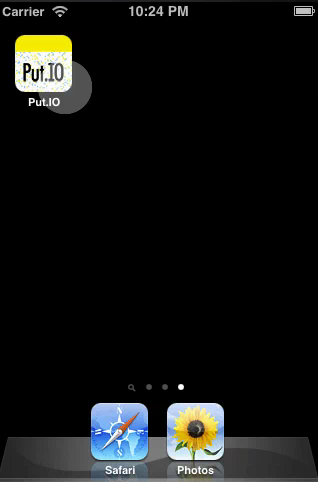
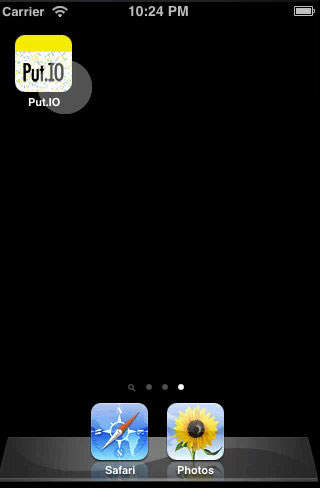
better poster image & iOS stuff

Changed region(s): [[0.0, 0.0, 1.0, 1.0]]

diff --git a/index.html b/index.html
@@ -46,16 +46,9 @@
     $("#number_of_hours").text("" + hours.commaSeparated() + " hours collectively watched so far");
   
   	var meny = Meny.create({
-  		// The element that will be animated in from off screen
   		menuElement: document.querySelector( '.meny' ),
-
-  		// The contents that gets pushed aside while Meny is active
   		contentsElement: document.querySelector( '.site' ),
-
-  		// [optional] The alignment of the menu (top/right/bottom/left)
   		position:'top',
-
-  		// [optional] The height of the menu (when using top/bottom position)
   		height: 200,
   	});
     

diff --git a/stylesheets/stylesheet.css b/stylesheets/stylesheet.css
@@ -16,7 +16,9 @@ body {
    margin-bottom:-120px;
    clear:both;
  }
-        
+ #iphone img {
+   background-color:black;
+ }
 	.frame {
     width : 960px;
     margin: 0 auto;
@@ -241,6 +243,10 @@ body {
 
     body{ 
       height: auto; 
+    }
+    
+    #iphone{
+      display:none;
     }
     
     body, html, #content {
